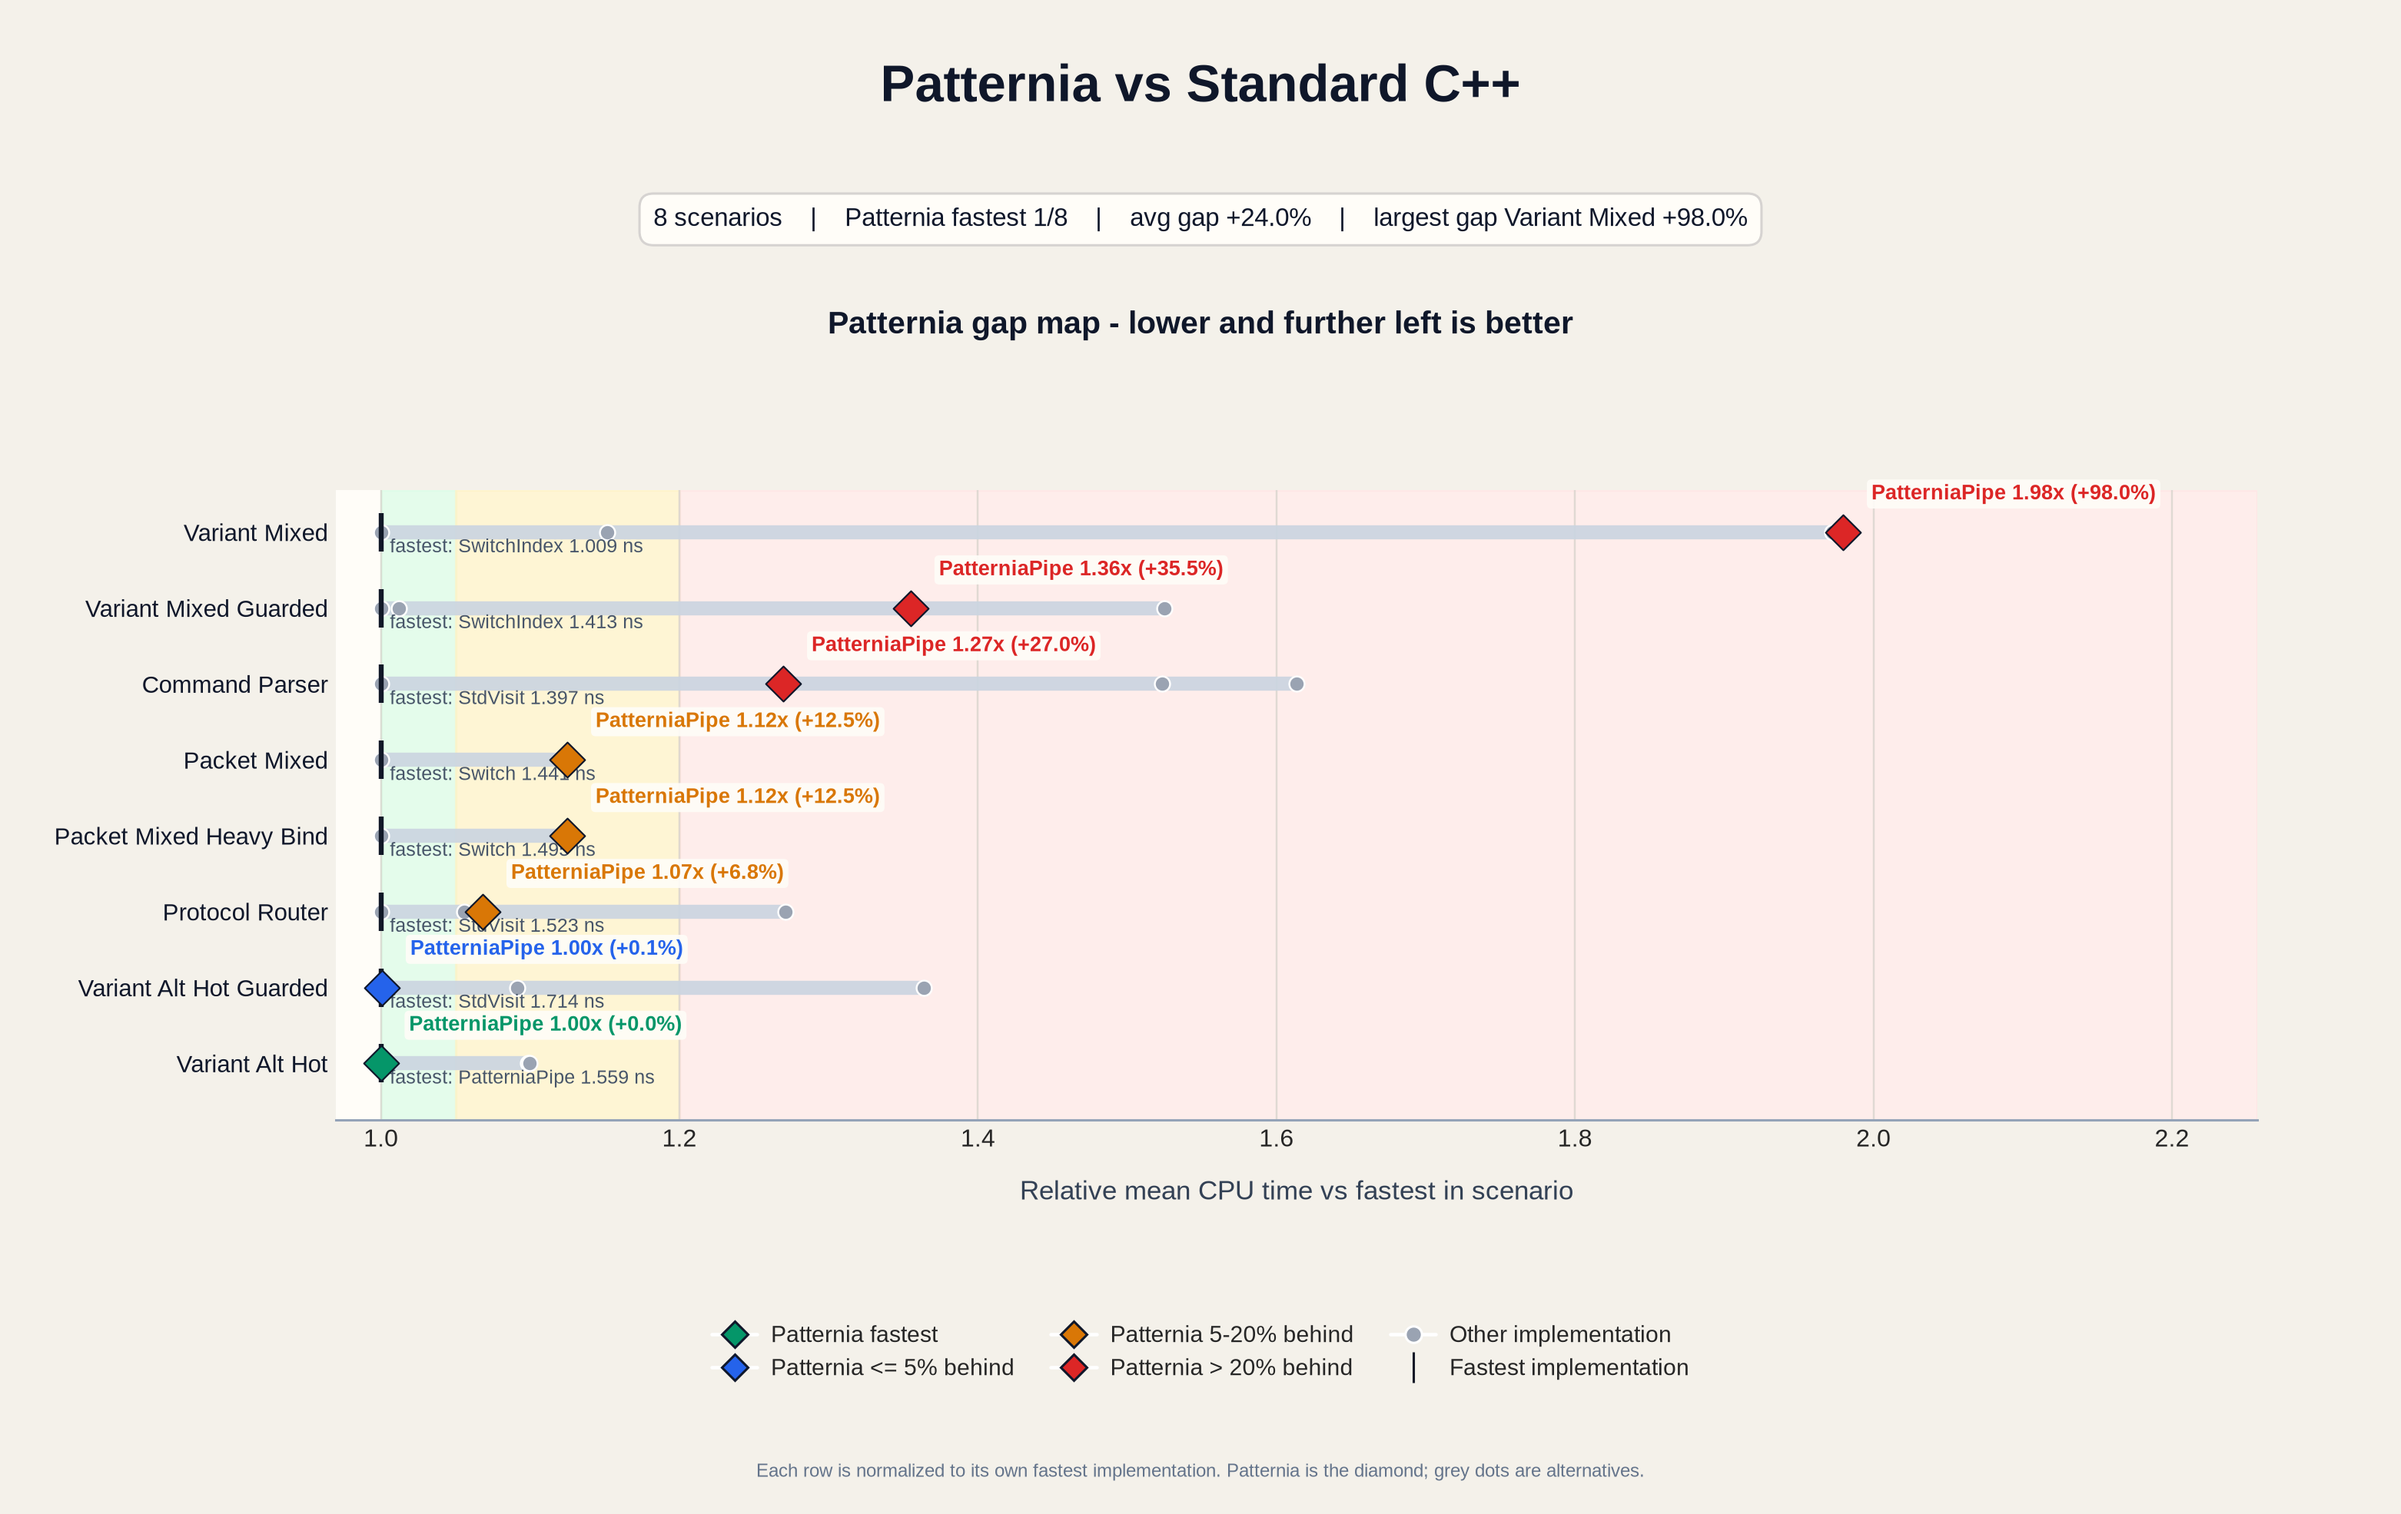
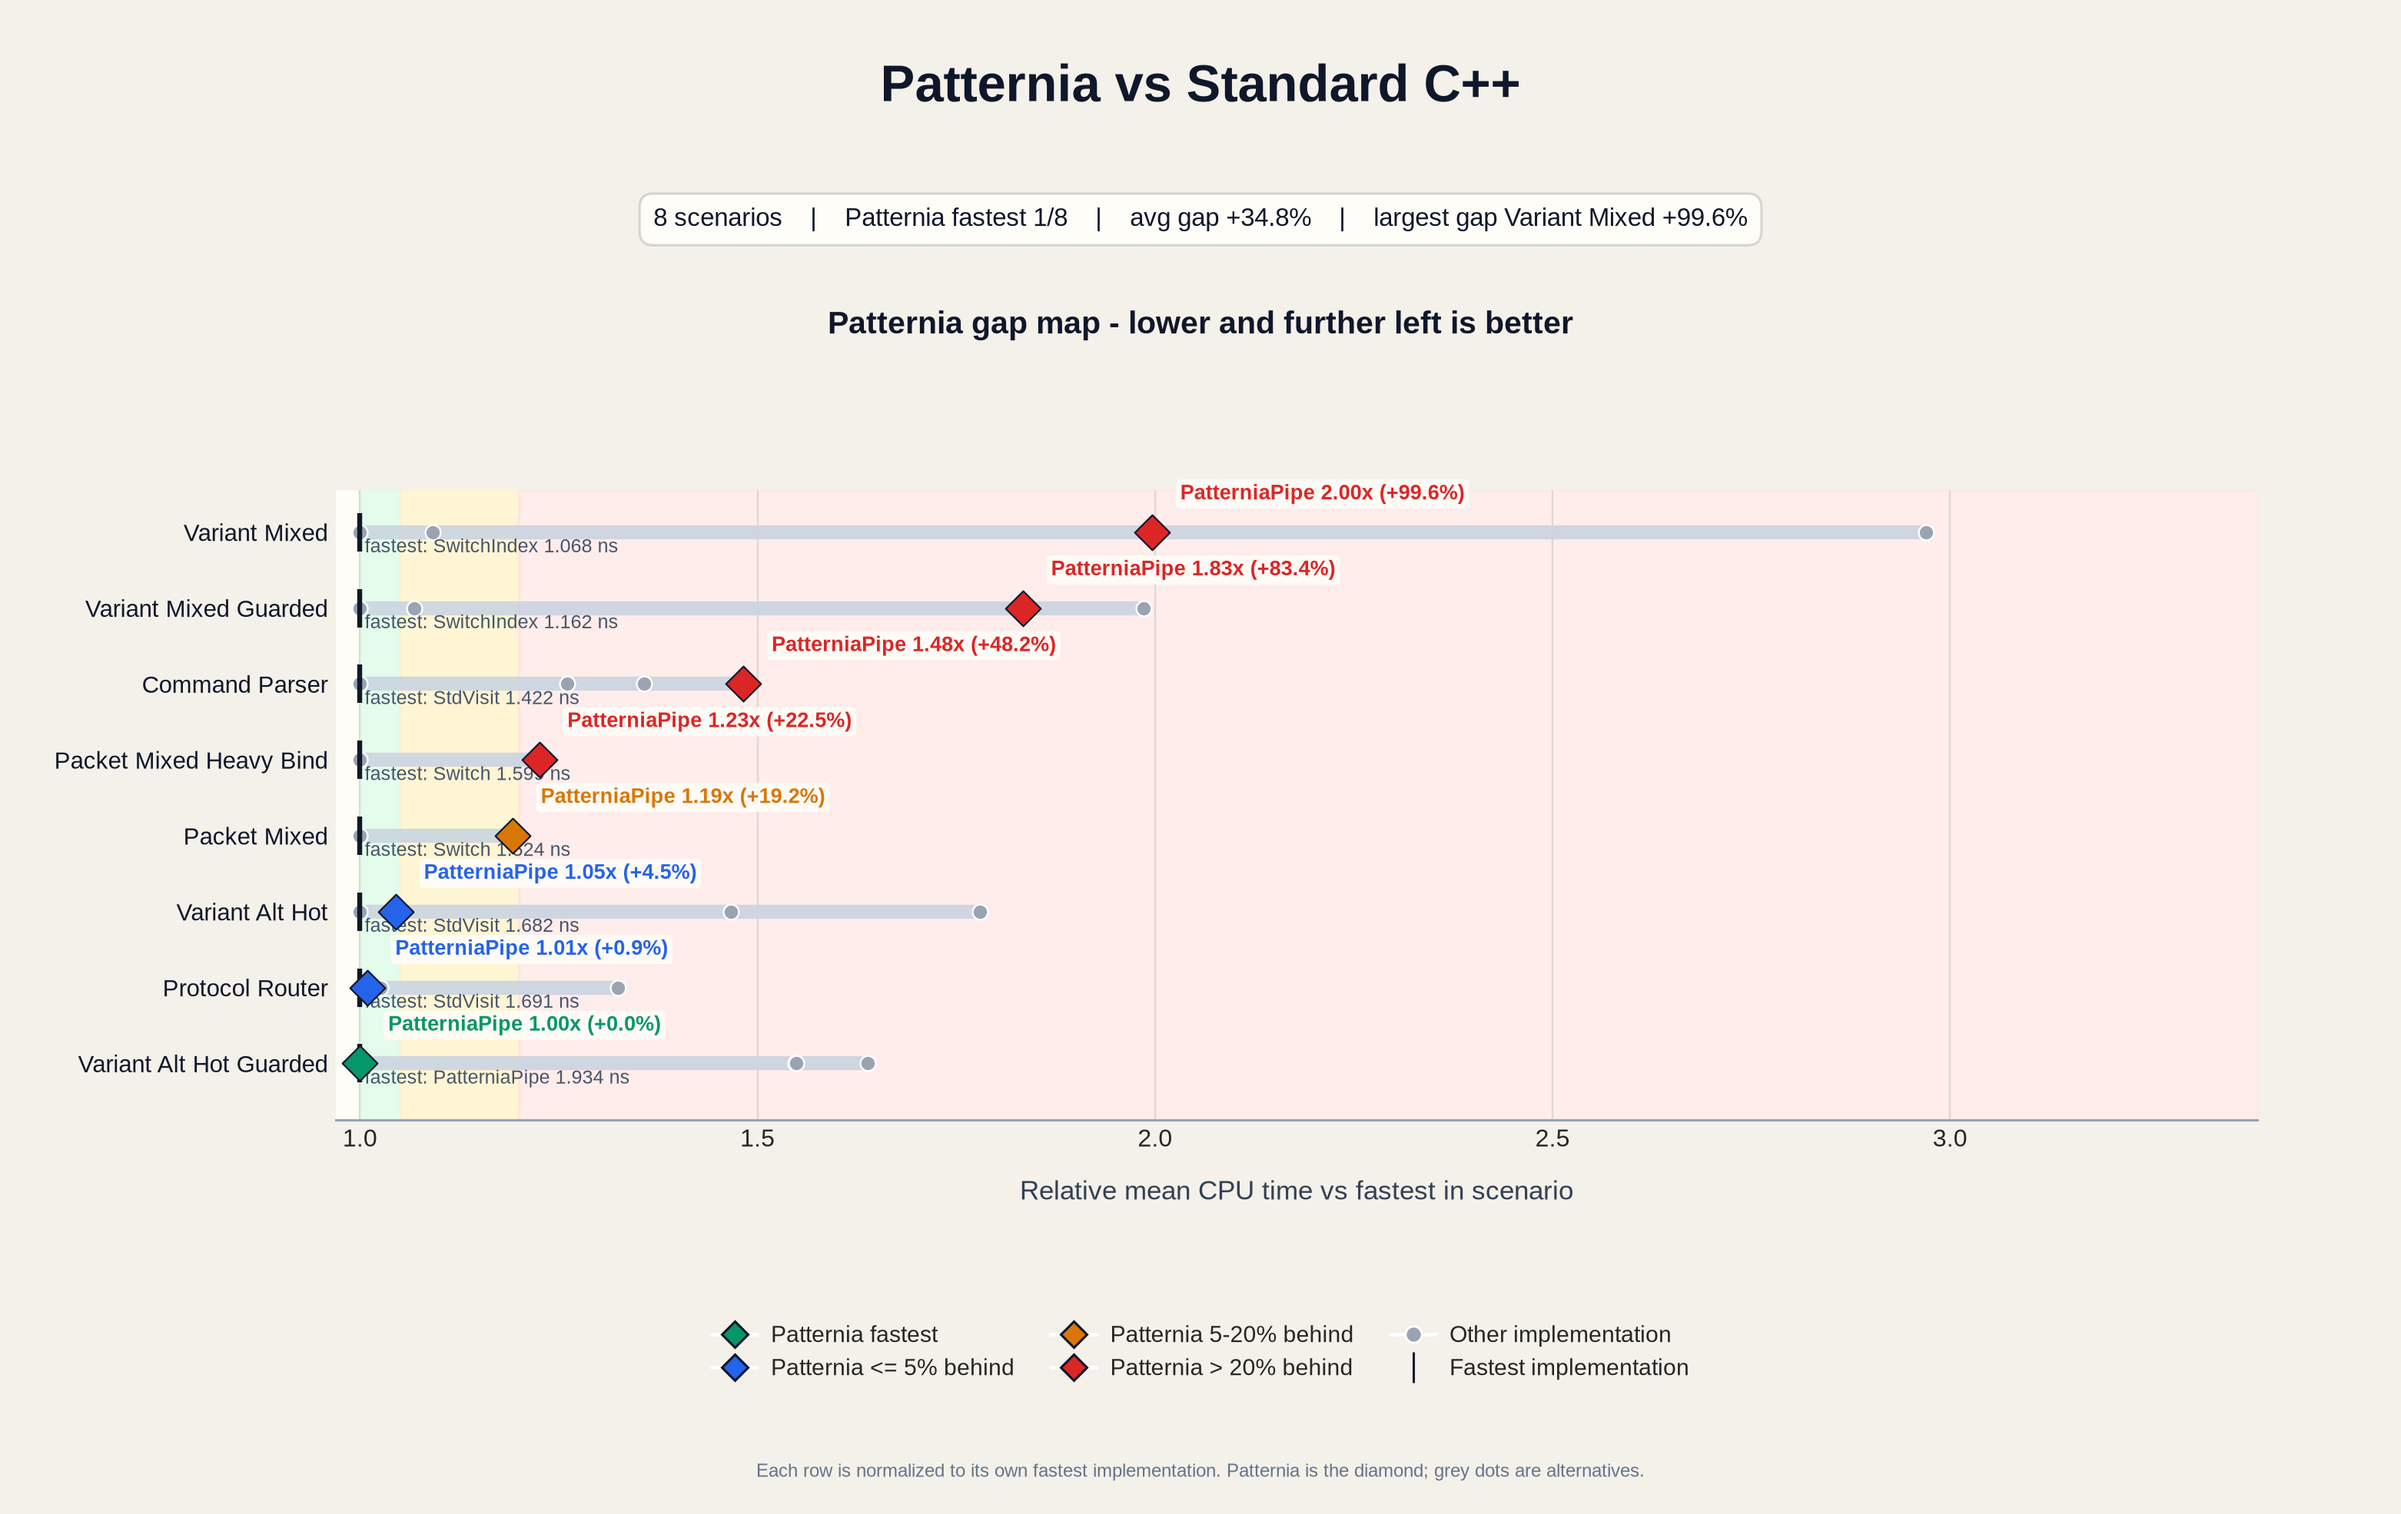
ci: update benchmark summary chart

Changed region(s): [[0.031, 0.3095, 0.5589, 0.7428], [0.7452, 0.3095, 0.9004, 0.3714], [0.4968, 0.3095, 0.621, 0.3404]]

diff --git a/docs/assets/bench/latest.md b/docs/assets/bench/latest.md
@@ -3,21 +3,21 @@
 - Source: `bench_results/ptn_bench.json`
 - Scenarios: `8`
 - Patternia fastest: `1/8`
-- Average Patternia gap vs fastest: `+24.04%`
-- Largest Patternia gap: `VariantMixed` `+97.98%` vs `SwitchIndex`
+- Average Patternia gap vs fastest: `+34.80%`
+- Largest Patternia gap: `VariantMixed` `+99.64%` vs `SwitchIndex`
 
 ## Patternia Focus
 
 | Scenario | Patternia impl | Rank | Patternia mean (ns) | Fastest | Fastest mean (ns) | Gap vs fastest | Patternia CV % | Status |
 |---|---:|---:|---:|---:|---:|---:|---:|---:|
-| VariantMixed | PatterniaPipe | 4/4 | 1.998 | SwitchIndex | 1.009 | +97.98% | 0.40 | slow |
-| VariantMixedGuarded | PatterniaPipe | 3/4 | 1.915 | SwitchIndex | 1.413 | +35.50% | 2.13 | slow |
-| CommandParser | PatterniaPipe | 2/4 | 1.774 | StdVisit | 1.397 | +26.97% | 0.21 | slow |
-| PacketMixed | PatterniaPipe | 2/2 | 1.621 | Switch | 1.441 | +12.49% | 0.25 | watch |
-| PacketMixedHeavyBind | PatterniaPipe | 2/2 | 1.682 | Switch | 1.495 | +12.49% | 0.20 | watch |
-| ProtocolRouter | PatterniaPipe | 3/4 | 1.627 | StdVisit | 1.523 | +6.83% | 0.29 | watch |
-| VariantAltHotGuarded | PatterniaPipe | 2/4 | 1.716 | StdVisit | 1.714 | +0.08% | 0.57 | close |
-| VariantAltHot | PatterniaPipe | 1/4 | 1.559 | PatterniaPipe | 1.559 | +0.00% | 0.47 | fastest |
+| VariantMixed | PatterniaPipe | 3/4 | 2.131 | SwitchIndex | 1.068 | +99.64% | 0.04 | slow |
+| VariantMixedGuarded | PatterniaPipe | 3/4 | 2.131 | SwitchIndex | 1.162 | +83.39% | 1.24 | slow |
+| CommandParser | PatterniaPipe | 4/4 | 2.107 | StdVisit | 1.422 | +48.24% | 0.26 | slow |
+| PacketMixedHeavyBind | PatterniaPipe | 2/2 | 1.959 | Switch | 1.599 | +22.55% | 0.23 | slow |
+| PacketMixed | PatterniaPipe | 2/2 | 1.817 | Switch | 1.524 | +19.20% | 0.15 | watch |
+| VariantAltHot | PatterniaPipe | 2/4 | 1.757 | StdVisit | 1.682 | +4.50% | 0.02 | close |
+| ProtocolRouter | PatterniaPipe | 2/4 | 1.706 | StdVisit | 1.691 | +0.89% | 1.30 | close |
+| VariantAltHotGuarded | PatterniaPipe | 1/4 | 1.934 | PatterniaPipe | 1.934 | +0.00% | 0.06 | fastest |
 
 ---
 
@@ -26,67 +26,67 @@
 
 | Impl | Mean (ns) | vs fastest | vs Patternia | CV % |
 |---|---:|---:|---:|---:|
-| SwitchIndex | 1.009 | fastest | -49.49% | 0.59 |
-| Sequential | 1.162 | +15.15% | -41.84% | 0.15 |
-| StdVisit | 1.990 | +97.26% | -0.36% | 0.11 |
-| **PatterniaPipe** | 1.998 | +97.98% | - | 0.40 |
+| SwitchIndex | 1.068 | fastest | -49.91% | 0.12 |
+| Sequential | 1.166 | +9.19% | -45.30% | 0.11 |
+| **PatterniaPipe** | 2.131 | +99.64% | - | 0.04 |
+| StdVisit | 3.171 | +197.02% | +48.78% | 0.41 |
 
 ### VariantMixedGuarded
 
 | Impl | Mean (ns) | vs fastest | vs Patternia | CV % |
 |---|---:|---:|---:|---:|
-| SwitchIndex | 1.413 | fastest | -26.20% | 0.83 |
-| Sequential | 1.430 | +1.19% | -25.32% | 0.31 |
-| **PatterniaPipe** | 1.915 | +35.50% | - | 2.13 |
-| StdVisit | 2.155 | +52.47% | +12.52% | 0.35 |
+| SwitchIndex | 1.162 | fastest | -45.47% | 1.35 |
+| Sequential | 1.241 | +6.79% | -41.77% | 0.16 |
+| **PatterniaPipe** | 2.131 | +83.39% | - | 1.24 |
+| StdVisit | 2.308 | +98.59% | +8.29% | 0.06 |
 
 ### CommandParser
 
 | Impl | Mean (ns) | vs fastest | vs Patternia | CV % |
 |---|---:|---:|---:|---:|
-| StdVisit | 1.397 | fastest | -21.24% | 0.49 |
-| **PatterniaPipe** | 1.774 | +26.97% | - | 0.21 |
-| IfElse | 2.128 | +52.36% | +20.00% | 0.44 |
-| Switch | 2.254 | +61.35% | +27.08% | 0.22 |
-
-### PacketMixed
-
-| Impl | Mean (ns) | vs fastest | vs Patternia | CV % |
-|---|---:|---:|---:|---:|
-| Switch | 1.441 | fastest | -11.11% | 1.69 |
-| **PatterniaPipe** | 1.621 | +12.49% | - | 0.25 |
+| StdVisit | 1.422 | fastest | -32.54% | 0.82 |
+| Switch | 1.792 | +26.05% | -14.97% | 0.81 |
+| IfElse | 1.930 | +35.73% | -8.44% | 2.21 |
+| **PatterniaPipe** | 2.107 | +48.24% | - | 0.26 |
 
 ### PacketMixedHeavyBind
 
 | Impl | Mean (ns) | vs fastest | vs Patternia | CV % |
 |---|---:|---:|---:|---:|
-| Switch | 1.495 | fastest | -11.10% | 0.44 |
-| **PatterniaPipe** | 1.682 | +12.49% | - | 0.20 |
+| Switch | 1.599 | fastest | -18.40% | 0.45 |
+| **PatterniaPipe** | 1.959 | +22.55% | - | 0.23 |
 
-### ProtocolRouter
-
-| Impl | Mean (ns) | vs fastest | vs Patternia | CV % |
-|---|---:|---:|---:|---:|
-| StdVisit | 1.523 | fastest | -6.39% | 0.37 |
-| Switch | 1.608 | +5.59% | -1.16% | 0.48 |
-| **PatterniaPipe** | 1.627 | +6.83% | - | 0.29 |
-| IfElse | 1.936 | +27.12% | +19.00% | 5.89 |
-
-### VariantAltHotGuarded
+### PacketMixed
 
 | Impl | Mean (ns) | vs fastest | vs Patternia | CV % |
 |---|---:|---:|---:|---:|
-| StdVisit | 1.714 | fastest | -0.08% | 0.48 |
-| **PatterniaPipe** | 1.716 | +0.08% | - | 0.57 |
-| Sequential | 1.871 | +9.12% | +9.03% | 0.49 |
-| SwitchIndex | 2.338 | +36.38% | +36.27% | 0.50 |
+| Switch | 1.524 | fastest | -16.11% | 1.82 |
+| **PatterniaPipe** | 1.817 | +19.20% | - | 0.15 |
 
 ### VariantAltHot
 
 | Impl | Mean (ns) | vs fastest | vs Patternia | CV % |
 |---|---:|---:|---:|---:|
-| **PatterniaPipe** | 1.559 | fastest | - | 0.47 |
-| StdVisit | 1.560 | +0.10% | +0.10% | 0.77 |
-| Sequential | 1.713 | +9.87% | +9.87% | 0.14 |
-| SwitchIndex | 1.714 | +9.95% | +9.95% | 0.48 |
+| StdVisit | 1.682 | fastest | -4.31% | 14.28 |
+| **PatterniaPipe** | 1.757 | +4.50% | - | 0.02 |
+| Sequential | 2.466 | +46.63% | +40.31% | 0.14 |
+| SwitchIndex | 2.993 | +77.97% | +70.31% | 0.08 |
+
+### ProtocolRouter
+
+| Impl | Mean (ns) | vs fastest | vs Patternia | CV % |
+|---|---:|---:|---:|---:|
+| StdVisit | 1.691 | fastest | -0.88% | 0.53 |
+| **PatterniaPipe** | 1.706 | +0.89% | - | 1.30 |
+| Switch | 1.734 | +2.54% | +1.64% | 2.61 |
+| IfElse | 2.240 | +32.42% | +31.25% | 2.28 |
+
+### VariantAltHotGuarded
+
+| Impl | Mean (ns) | vs fastest | vs Patternia | CV % |
+|---|---:|---:|---:|---:|
+| **PatterniaPipe** | 1.934 | fastest | - | 0.06 |
+| StdVisit | 2.993 | +54.78% | +54.78% | 0.06 |
+| Sequential | 2.996 | +54.90% | +54.90% | 0.34 |
+| SwitchIndex | 3.170 | +63.89% | +63.89% | 0.08 |
 

diff --git a/docs/assets/bench/scale.md b/docs/assets/bench/scale.md
@@ -3,17 +3,17 @@
 - Source: `bench_results/ptn_bench_scale.json`
 - Scenarios: `4`
 - Patternia fastest: `0/4`
-- Average Patternia gap vs fastest: `+92.36%`
-- Largest Patternia gap: `ScaleN32` `+136.63%` vs `SwitchIndex`
+- Average Patternia gap vs fastest: `+80.46%`
+- Largest Patternia gap: `ScaleN32` `+127.14%` vs `SwitchIndex`
 
 ## Patternia Focus
 
 | Scenario | Patternia impl | Rank | Patternia mean (ns) | Fastest | Fastest mean (ns) | Gap vs fastest | Patternia CV % | Status |
 |---|---:|---:|---:|---:|---:|---:|---:|---:|
-| ScaleN32 | PatterniaPipe | 2/3 | 2.136 | SwitchIndex | 0.903 | +136.63% | 0.42 | slow |
-| ScaleN8 | PatterniaPipe | 3/3 | 1.567 | StdVisit | 0.821 | +90.83% | 1.14 | slow |
-| ScaleN16 | PatterniaPipe | 2/3 | 1.765 | SwitchIndex | 0.928 | +90.31% | 1.72 | slow |
-| ScaleN4 | PatterniaPipe | 3/3 | 1.360 | SwitchIndex | 0.897 | +51.66% | 0.86 | slow |
+| ScaleN32 | PatterniaPipe | 2/3 | 2.297 | SwitchIndex | 1.011 | +127.14% | 2.22 | slow |
+| ScaleN8 | PatterniaPipe | 3/3 | 1.774 | StdVisit | 0.954 | +85.86% | 2.31 | slow |
+| ScaleN16 | PatterniaPipe | 2/3 | 1.737 | SwitchIndex | 1.015 | +71.15% | 1.01 | slow |
+| ScaleN4 | PatterniaPipe | 3/3 | 1.396 | SwitchIndex | 1.014 | +37.69% | 0.40 | slow |
 
 ---
 
@@ -22,31 +22,31 @@
 
 | Impl | Mean (ns) | vs fastest | vs Patternia | CV % |
 |---|---:|---:|---:|---:|
-| SwitchIndex | 0.903 | fastest | -57.74% | 0.40 |
-| **PatterniaPipe** | 2.136 | +136.63% | - | 0.42 |
-| StdVisit | 8.200 | +808.40% | +283.89% | 2.88 |
+| SwitchIndex | 1.011 | fastest | -55.97% | 0.60 |
+| **PatterniaPipe** | 2.297 | +127.14% | - | 2.22 |
+| StdVisit | 6.691 | +561.52% | +191.25% | 1.30 |
 
 ### ScaleN8
 
 | Impl | Mean (ns) | vs fastest | vs Patternia | CV % |
 |---|---:|---:|---:|---:|
-| StdVisit | 0.821 | fastest | -47.60% | 0.20 |
-| SwitchIndex | 0.831 | +1.21% | -46.96% | 4.84 |
-| **PatterniaPipe** | 1.567 | +90.83% | - | 1.14 |
+| StdVisit | 0.954 | fastest | -46.20% | 0.48 |
+| SwitchIndex | 0.978 | +2.46% | -44.87% | 4.04 |
+| **PatterniaPipe** | 1.774 | +85.86% | - | 2.31 |
 
 ### ScaleN16
 
 | Impl | Mean (ns) | vs fastest | vs Patternia | CV % |
 |---|---:|---:|---:|---:|
-| SwitchIndex | 0.928 | fastest | -47.45% | 2.38 |
-| **PatterniaPipe** | 1.765 | +90.31% | - | 1.72 |
-| StdVisit | 5.866 | +532.40% | +232.30% | 7.72 |
+| SwitchIndex | 1.015 | fastest | -41.57% | 0.51 |
+| **PatterniaPipe** | 1.737 | +71.15% | - | 1.01 |
+| StdVisit | 3.129 | +208.35% | +80.16% | 0.26 |
 
 ### ScaleN4
 
 | Impl | Mean (ns) | vs fastest | vs Patternia | CV % |
 |---|---:|---:|---:|---:|
-| SwitchIndex | 0.897 | fastest | -34.06% | 0.69 |
-| StdVisit | 0.935 | +4.21% | -31.29% | 0.30 |
-| **PatterniaPipe** | 1.360 | +51.66% | - | 0.86 |
+| SwitchIndex | 1.014 | fastest | -27.38% | 0.16 |
+| StdVisit | 1.052 | +3.82% | -24.60% | 0.22 |
+| **PatterniaPipe** | 1.396 | +37.69% | - | 0.40 |
 
